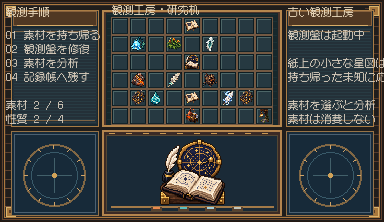
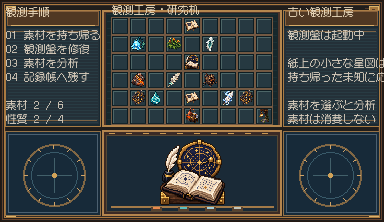
Art: align workshop folios and preview four screens

diff --git a/scripts/build_first_magic_assets.py b/scripts/build_first_magic_assets.py
@@ -87,6 +87,16 @@ def preview() -> None:
         small = Image.open(ASSET / f"textures/item/{MAGIC}/{name}.png").convert("RGBA").resize((16, 16), Image.Resampling.NEAREST)
         im.alpha_composite(small, (x, y))
     save(im, ROOT / "assets/first-magic/workshop-screen-preview.png")
+    pages = Image.new("RGBA", (768, 444), "#171d21")
+    for index, page in enumerate(("desk", "distiller", "jars", "journal")):
+        spread = Image.new("RGBA", (384, 222))
+        for side in (0, 1):
+            half = Image.open(ASSET / f"textures/gui/first_magic/{page}_{side}.png").convert("RGBA")
+            spread.alpha_composite(half, (side*192, 0))
+        x, y = (index%2)*384, (index//2)*222
+        pages.alpha_composite(spread, (x,y))
+        ImageDraw.Draw(pages).text((x+110,y+4), page.upper(), fill="#e7d4ae")
+    save(pages, ROOT / "assets/first-magic/ui-pages.png")
 
 
 def build() -> None:

diff --git a/scripts/first_magic_art_v2.py b/scripts/first_magic_art_v2.py
@@ -396,9 +396,11 @@ def build_ui(root: Path, asset: Path, write_json) -> None:
             d.rectangle((x+3,y+3,x+5,y+5), fill="#5b3d28")
         # The side folios are navy book cloth, with inset aged paper ruled for
         # text. The accepted light text stays legible on a deep manuscript ink.
-        for l,r in ((11,98),(286,373)):
+        # CoreMenuCanvas anchors the left folio text at x=6. The ink field
+        # reaches that pixel so no heading lands on the timber margin.
+        for l,r in ((5,100),(283,379)):
             d.rectangle((l,10,r,126), fill="#192932", outline="#a97c45", width=1)
-            d.rectangle((l+2,28,r-2,123), fill="#243038")
+            d.rectangle((l+1,28,r-2,123), fill="#243038")
             for yy in range(29,123,3):
                 d.line((l+3,yy,r-3,yy), fill="#283b43")
             d.rectangle((l+2,11,r-2,25), fill="#503823", outline="#89623c")
